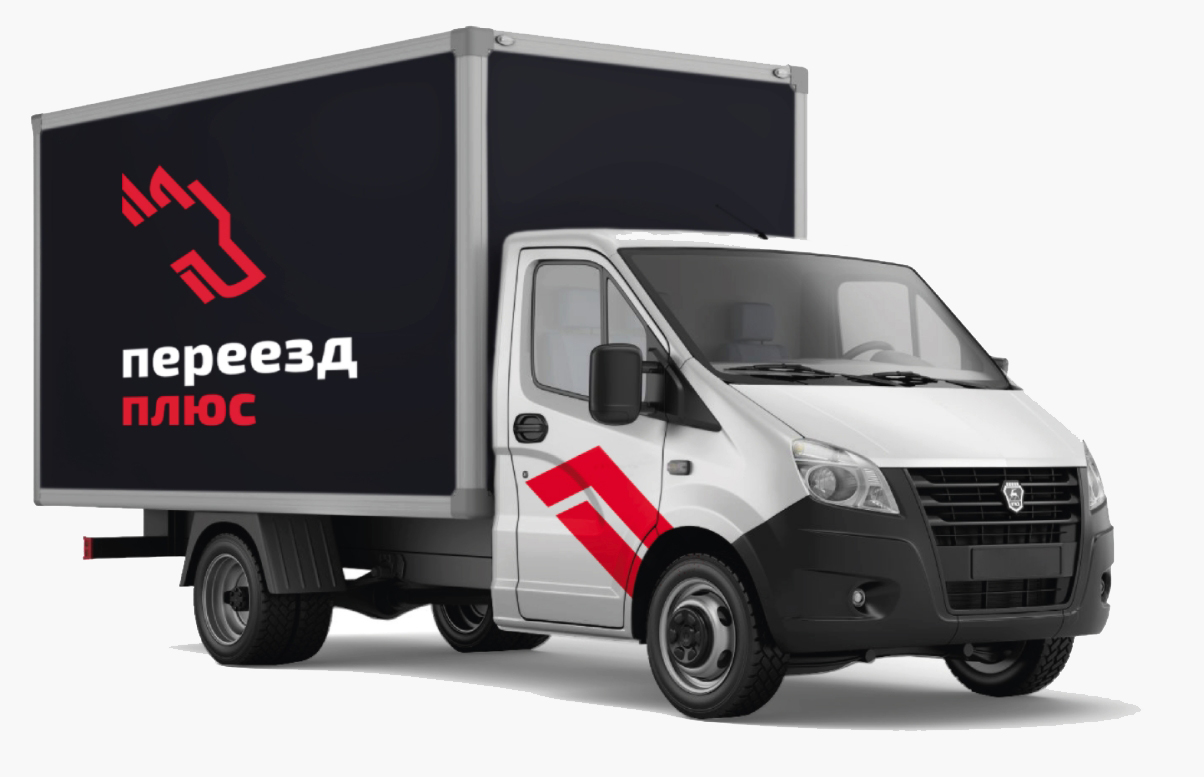
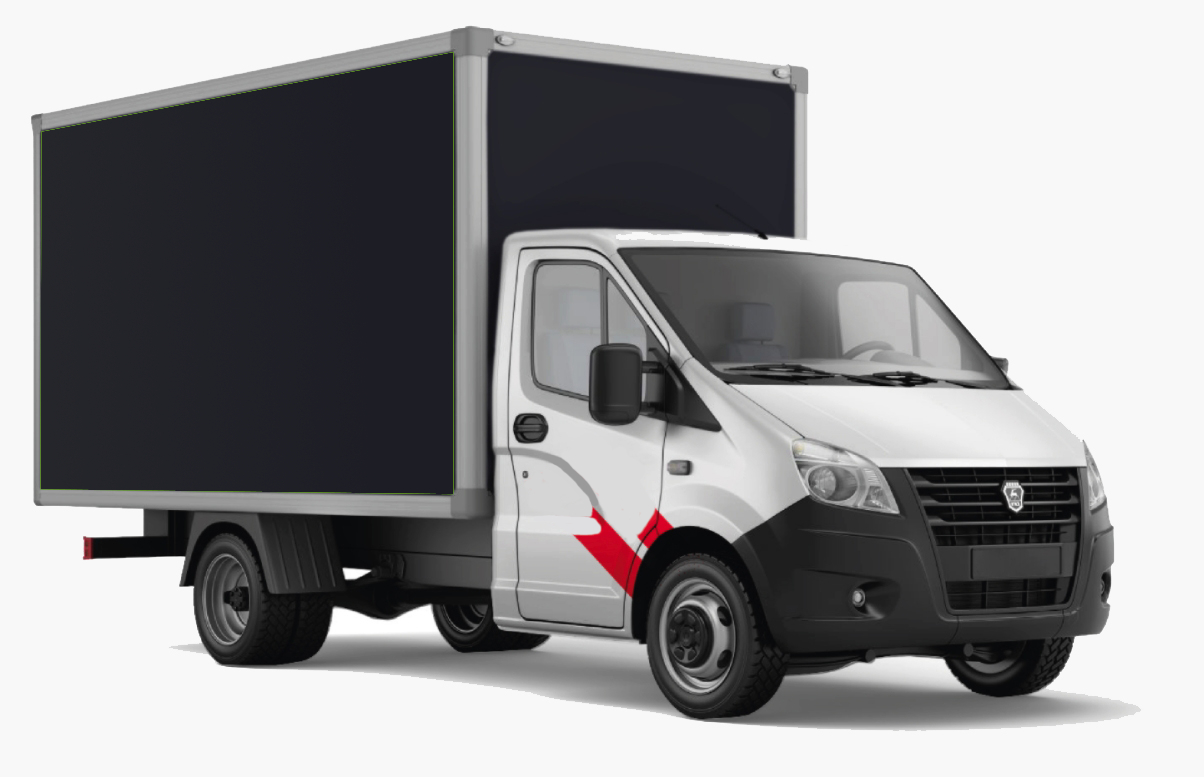
brand

Changed region(s): [[0.0922, 0.4324, 0.3073, 0.556], [0.0922, 0.2162, 0.2151, 0.4015], [0.4302, 0.556, 0.5532, 0.7104]]

diff --git a/ofisnyj-pereezd.html b/ofisnyj-pereezd.html
@@ -275,7 +275,7 @@
 <li> Подаются грузовые автомобили. Грузчики выносят все имущество из офиса, аккуратно погружают на автомобили и закрепляют, чтобы в процессе перевозки ничего не упало.</li>
 <li> Вещи доставляются на новое место, заносятся в помещение. Мебель собирается и устанавливается на указанные места.</li>
 </ol>
-<p>Такие работы под ключ позволяют быстро переместить офис. В компании «Грузпэк» в Краснодаре работают специалисты по офисным переездам, которые выполнили много таких задач, могут дать рекомендации для быстрого перемещения рабочего пространства на новый адрес. Собственный автопарк позволит подобрать необходимое количество грузовых авто с нужным объемом. Звоните менеджерам компании, чтобы уточнить стоимость и заказать выезд специалистов.</p>
+<p>Такие работы под ключ позволяют быстро переместить офис. В компании «Федеральная служба переездов» в Краснодаре работают специалисты по офисным переездам, которые выполнили много таких задач, могут дать рекомендации для быстрого перемещения рабочего пространства на новый адрес. Собственный автопарк позволит подобрать необходимое количество грузовых авто с нужным объемом. Звоните менеджерам компании, чтобы уточнить стоимость и заказать выезд специалистов.</p>
 <h3>
 Цены на перевозку офиса
 </h3>

diff --git a/dachnyj-pereezd.html b/dachnyj-pereezd.html
@@ -281,7 +281,7 @@
 <p>Для этих целей можно вызвать нашего представителя на объект. На месте специалиста осмотрит вещи, которые подлежат перевозке и, исходя их полученных данных, определит, какое транспортное средство лучше использовать и сколько грузчиков приглашать.</p>
 <p>Аналогично можно выполнить оценку услуг посредством видеосвязи, осуществляемой в реальном времени, или же в режиме телефонного разговора. При этом мы практикуем различные поощрительные и бонусные акции, что станет приятным дополнением к качественно выполненной работе.
 Наши достоинства</p>
-<p>Для осуществления дачных переездов в компании «Грузпэк» имеется несколько транспортных средств. В их числе:</p>
+<p>Для осуществления дачных переездов в компании «Федеральная служба переездов» имеется несколько транспортных средств. В их числе:</p>
 <ul>
   <li><i class="fas fa-check"></i> Различные модификации Газели (3/4 метра, тент/фургон, 1,5-2 тонны);</li>
   <li><i class="fas fa-check"></i> Зил Бычок с грузоподъемностью до 3 тонн;</li>

diff --git a/kvartirnyj-pereezd.html b/kvartirnyj-pereezd.html
@@ -203,7 +203,7 @@
   <li><i class="fas fa-check"></i> расстановка, распаковка</li>
 </ul>
 
-  <p>Желающим сэкономить на услугах грузчиков нужно сделать заказ на работу целый день. Если знакомые пользовались услугами «Грузпэк», то можно рассчитывать на скидку на квартирный переезд. Следует назвать дату, номер заказа знакомых менеджеру.</p>
+  <p>Желающим сэкономить на услугах грузчиков нужно сделать заказ на работу целый день. Если знакомые пользовались услугами «Федеральная служба переездов», то можно рассчитывать на скидку на квартирный переезд. Следует назвать дату, номер заказа знакомых менеджеру.</p>
 <p>Способы оплаты услуг:</p>
 <ul>
   <li><i class="fas fa-check"></i> наличными;</li>

diff --git a/about.html b/about.html
@@ -111,7 +111,7 @@
 </div>
 <div class="about_right">
   <h1>Задумали переезд и не знаете как перевезти все вещи? Или ищете ответственных грузчиков?</h1>
-  <p>Обращайтесь в «Грузпэк»! Отправьте заявку, наш менеджер перезвонит Вам, сделает быстрый расчет стоимости услуг и ответит на все вопросы.</p>
+  <p>Обращайтесь в «Федеральная служба переездов»! Отправьте заявку, наш менеджер перезвонит Вам, сделает быстрый расчет стоимости услуг и ответит на все вопросы.</p>
 </div>
 </div>
 </div>

diff --git a/index.html b/index.html
@@ -118,7 +118,7 @@
     </div>
     <div class="col-md-4 col-md-push-4 zakform">
       <form>
-        <div><h6>Заказать быструю оценку стоимости услуг бесплатно</h6></div>
+        <div><h6>оставить заявку</h6></div>
   <div class="form-group">
     <label for="name">Имя</label>
     <input type="text" class="form-control" id="exampleInputEmail1" aria-describedby="emailHelp" placeholder="Ваше имя">
